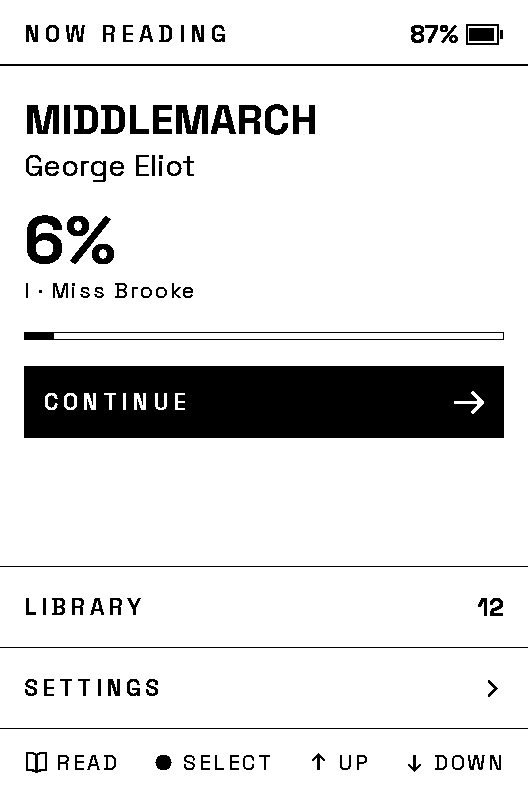
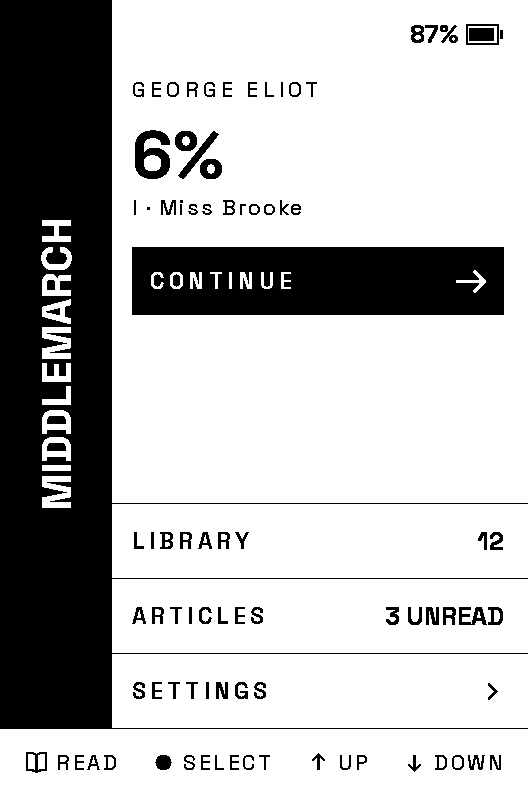
docs(readme): the home screenshot still showed the pre-spine screen, and its alt text still described it (#150)
`make readme-images` had not been run since #145 put the book's title on a
spine and #141 added the ARTICLES row, so the front page showed a Home with a
NOW READING band and a progress bar -- both of which `design/Main.dc.html` says
outright are gone ("the progress BAR goes", "THERE IS NO `NOW READING` BAND").
Only home.png moved; reader, library, typography and sleep_cover_details are
byte-identical, the reader's own change (#149's `-%`) being visible only in the
counting state the README render does not draw.

The alt text went with it. It named "a library count and settings" for a screen
that now also carries ARTICLES, which is the half a regenerated PNG cannot fix
and the half a screen reader gets.

Releasing step 2 is what caught it: the README checklist is the one thing on
that page that can drift, and the rendered screens drift with it.

diff --git a/README.md b/README.md
@@ -28,7 +28,7 @@ models; it works out which one it is at boot.
 
 <table>
 <tr>
-<td width="25%"><img src="docs/images/home.png" alt="The home screen, showing the book in progress, a library count and settings."></td>
+<td width="25%"><img src="docs/images/home.png" alt="The home screen: the book's title down a black spine, with the author, how far in you are, a library count, unread articles and settings beside it."></td>
 <td width="25%"><img src="docs/images/library.png" alt="The library, listing a folder and six books with their progress."></td>
 <td width="25%"><img src="docs/images/typography.png" alt="The typography panel: a live preview of body text above rows for font, size, margins, line spacing and alignment."></td>
 <td width="25%"><img src="docs/images/sleep_cover_details.png" alt="The sleep screen: a book cover as a four-level greyscale photograph, with a card over it naming the book and how far in you are."></td>
